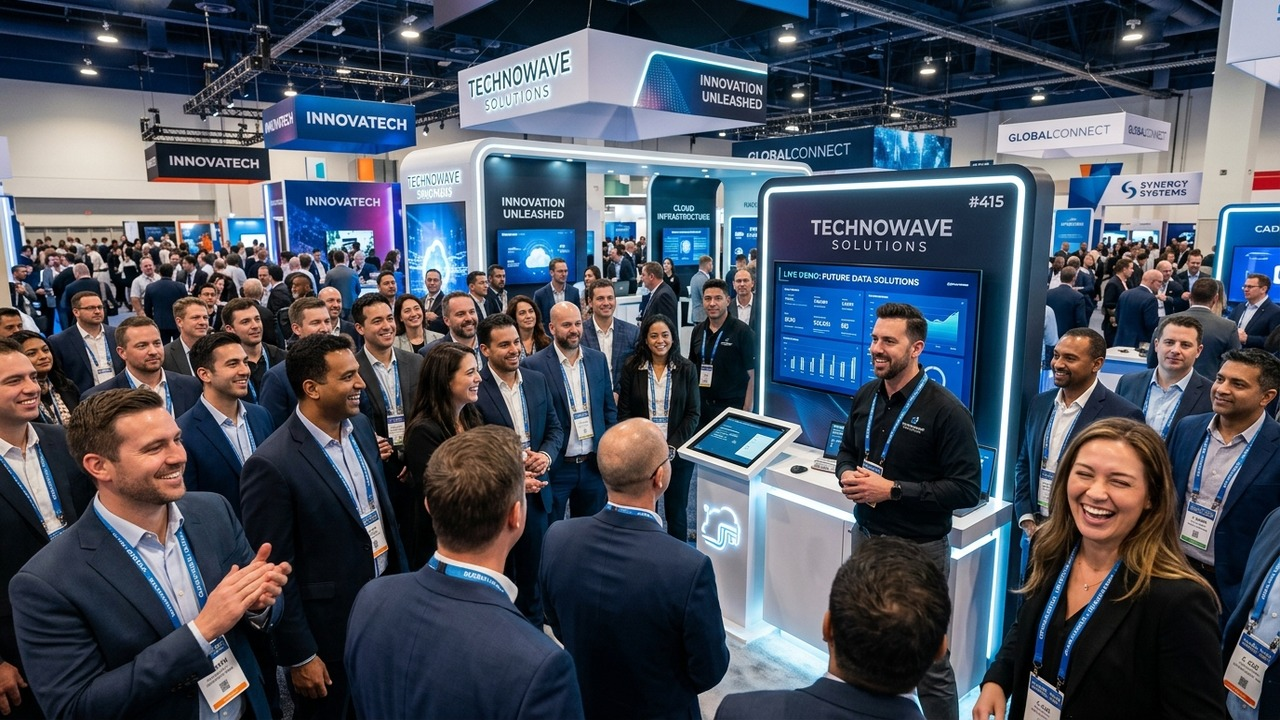
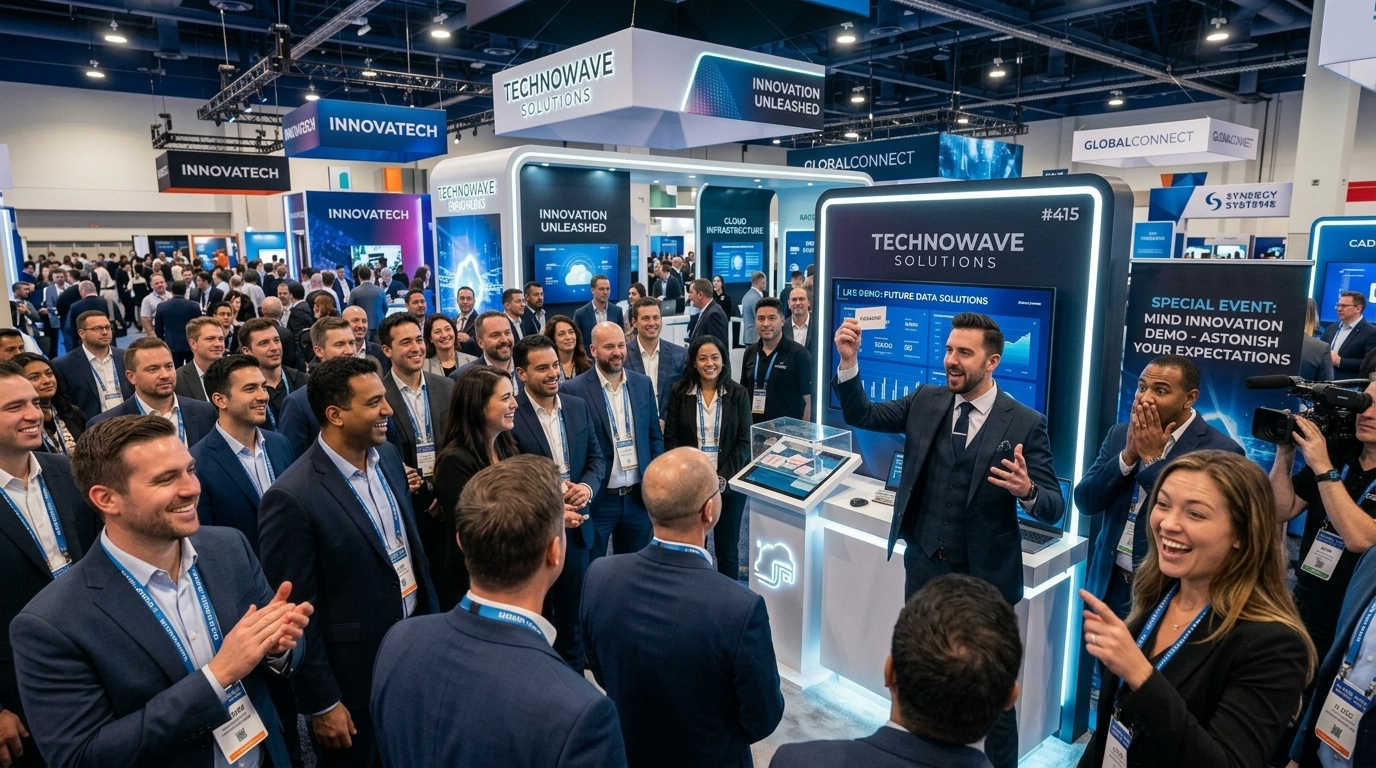
Update Trade Show Lead Gen card image to show magic & mentalism booth performance

diff --git a/index.html b/index.html
@@ -279,7 +279,7 @@
           <!-- Package 3: Trade Show Lead Gen -->
           <div class="service-card-interactive gold-glow-card">
             <div class="service-card-image-wrap" style="position: relative; width: 100%; height: 220px; overflow: hidden; background: #11131c;">
-              <img src="images/tradeshow_lead_gen.jpg?v=20260908_v1" alt="Trade Show Lead Gen - Crowd Attraction" class="service-card-image" style="width: 100%; height: 100%; object-fit: cover; object-position: center 30%; display: block;">
+              <img src="images/tradeshow_lead_gen.jpg?v=20260909_v1" alt="Trade Show Lead Gen - Mind Reading & Magic Attraction" class="service-card-image" style="width: 100%; height: 100%; object-fit: cover; object-position: center 25%; display: block;">
             </div>
             <div class="service-card-body">
               <div>
